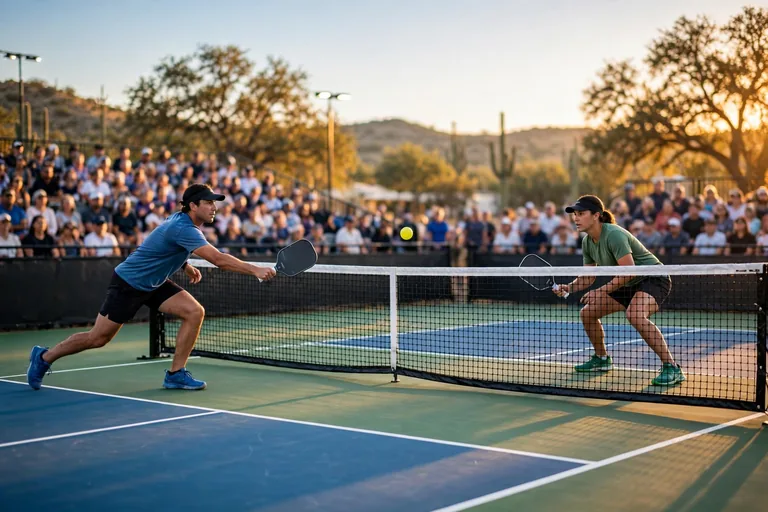
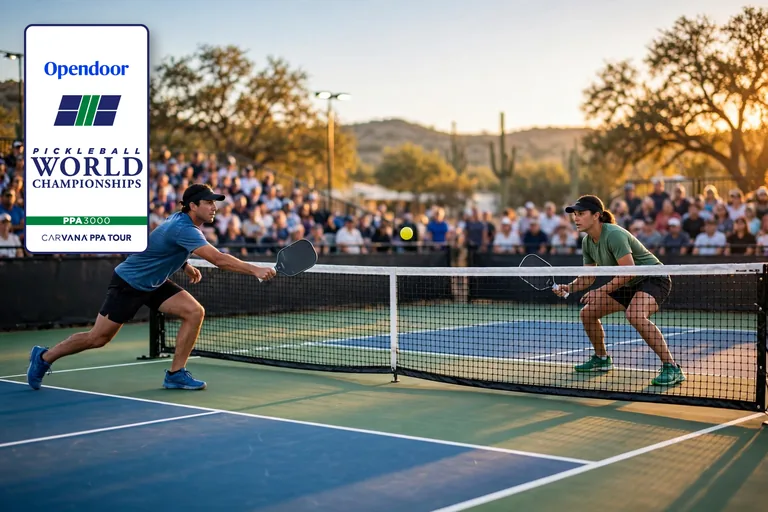
content(blog): add official Opendoor Worlds badge to hero
Composites the real event badge from ppatour.com (ppa/badges/worlds.png)
onto the hero, top-left; alt text updated to match. Badge is the
official artwork, not AI-redrawn.

Changed region(s): [[0.0312, 0.0312, 0.2188, 0.5312]]

diff --git a/src/content/blog/metadata.ts b/src/content/blog/metadata.ts
@@ -27,7 +27,7 @@ export const blogMetadata: BlogPostMetadata[] = [
     },
     "heroImage": {
       "src": "/images/blog/pickleball-world-championships-2026-results-hero.webp",
-      "alt": "Doubles players rallying at the net during a professional pickleball championship match"
+      "alt": "Doubles players rallying at the net during a professional pickleball championship match, with the Opendoor Pickleball World Championships badge"
     },
     "titleEn": "World Championship 2026 Results: Daily Scores and Confirmed Winners",
     "titleVi": "Kết quả World Championship 2026: cập nhật hằng ngày",

diff --git a/src/content/blog/posts/pickleball-world-championships-2026-results.ts b/src/content/blog/posts/pickleball-world-championships-2026-results.ts
@@ -21,7 +21,7 @@ const post: BlogPost = {
   },
   "heroImage": {
     "src": "/images/blog/pickleball-world-championships-2026-results-hero.webp",
-    "alt": "Doubles players rallying at the net during a professional pickleball championship match"
+    "alt": "Doubles players rallying at the net during a professional pickleball championship match, with the Opendoor Pickleball World Championships badge"
   },
   "content": {
     "en": {
